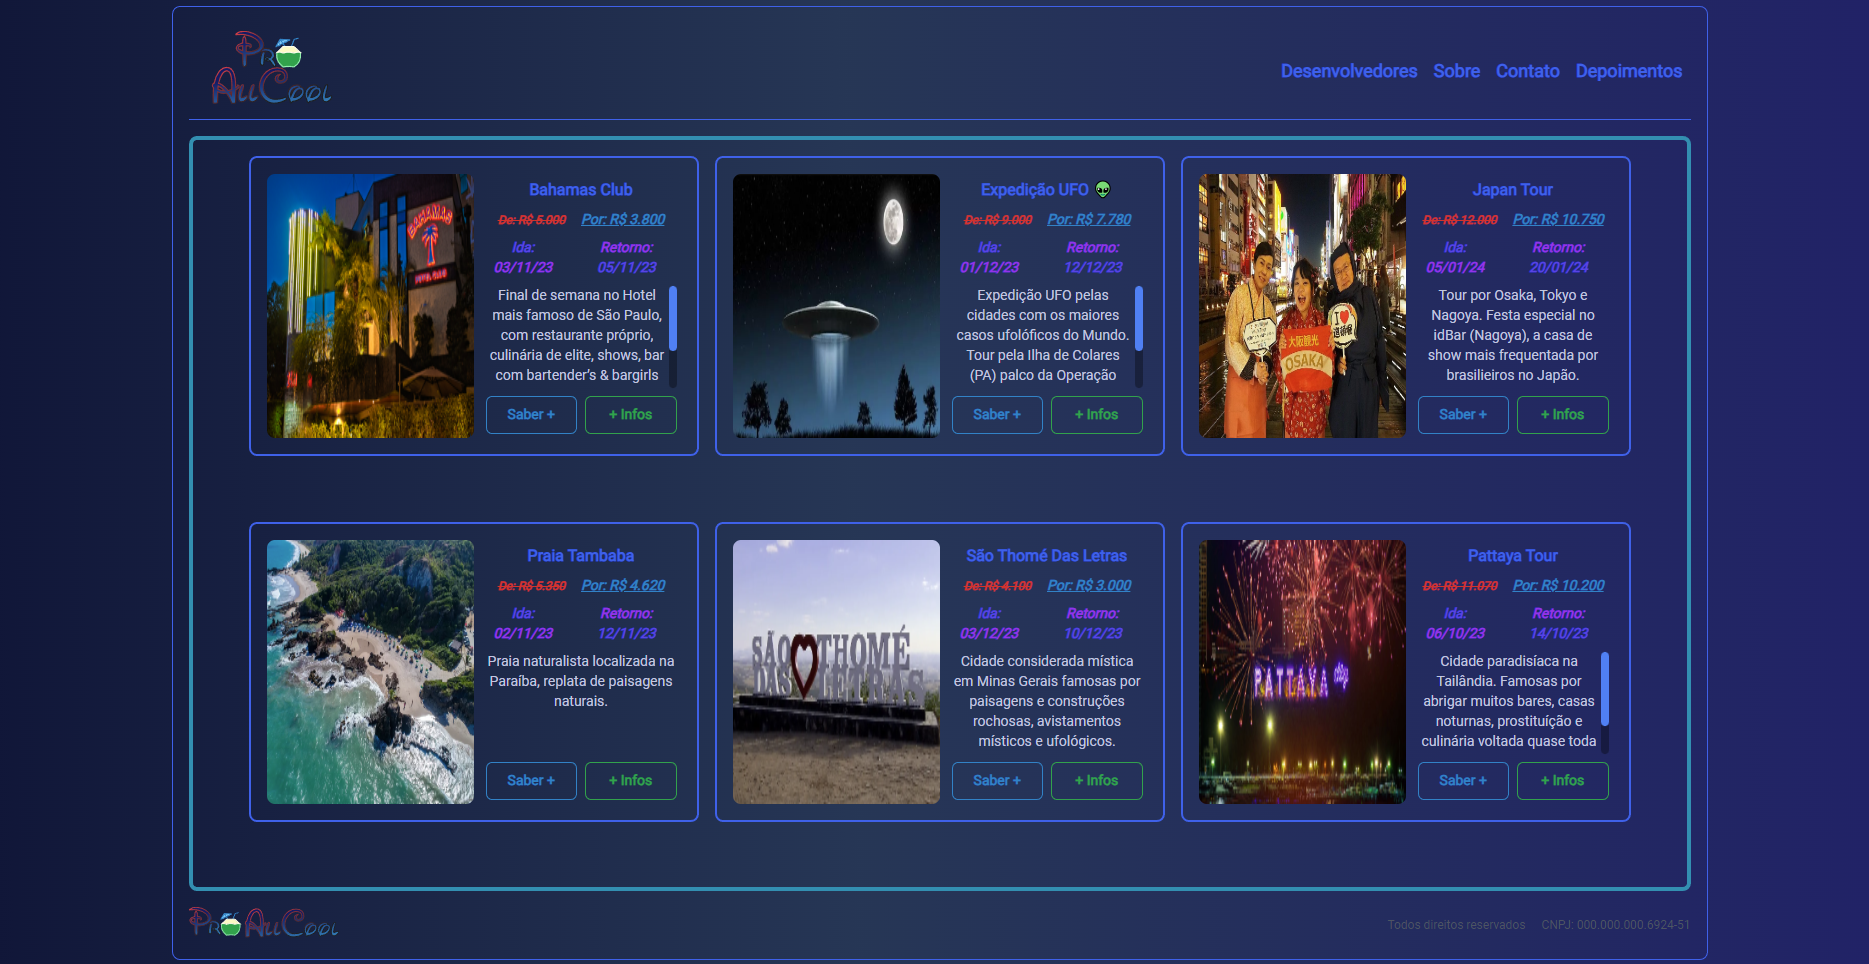
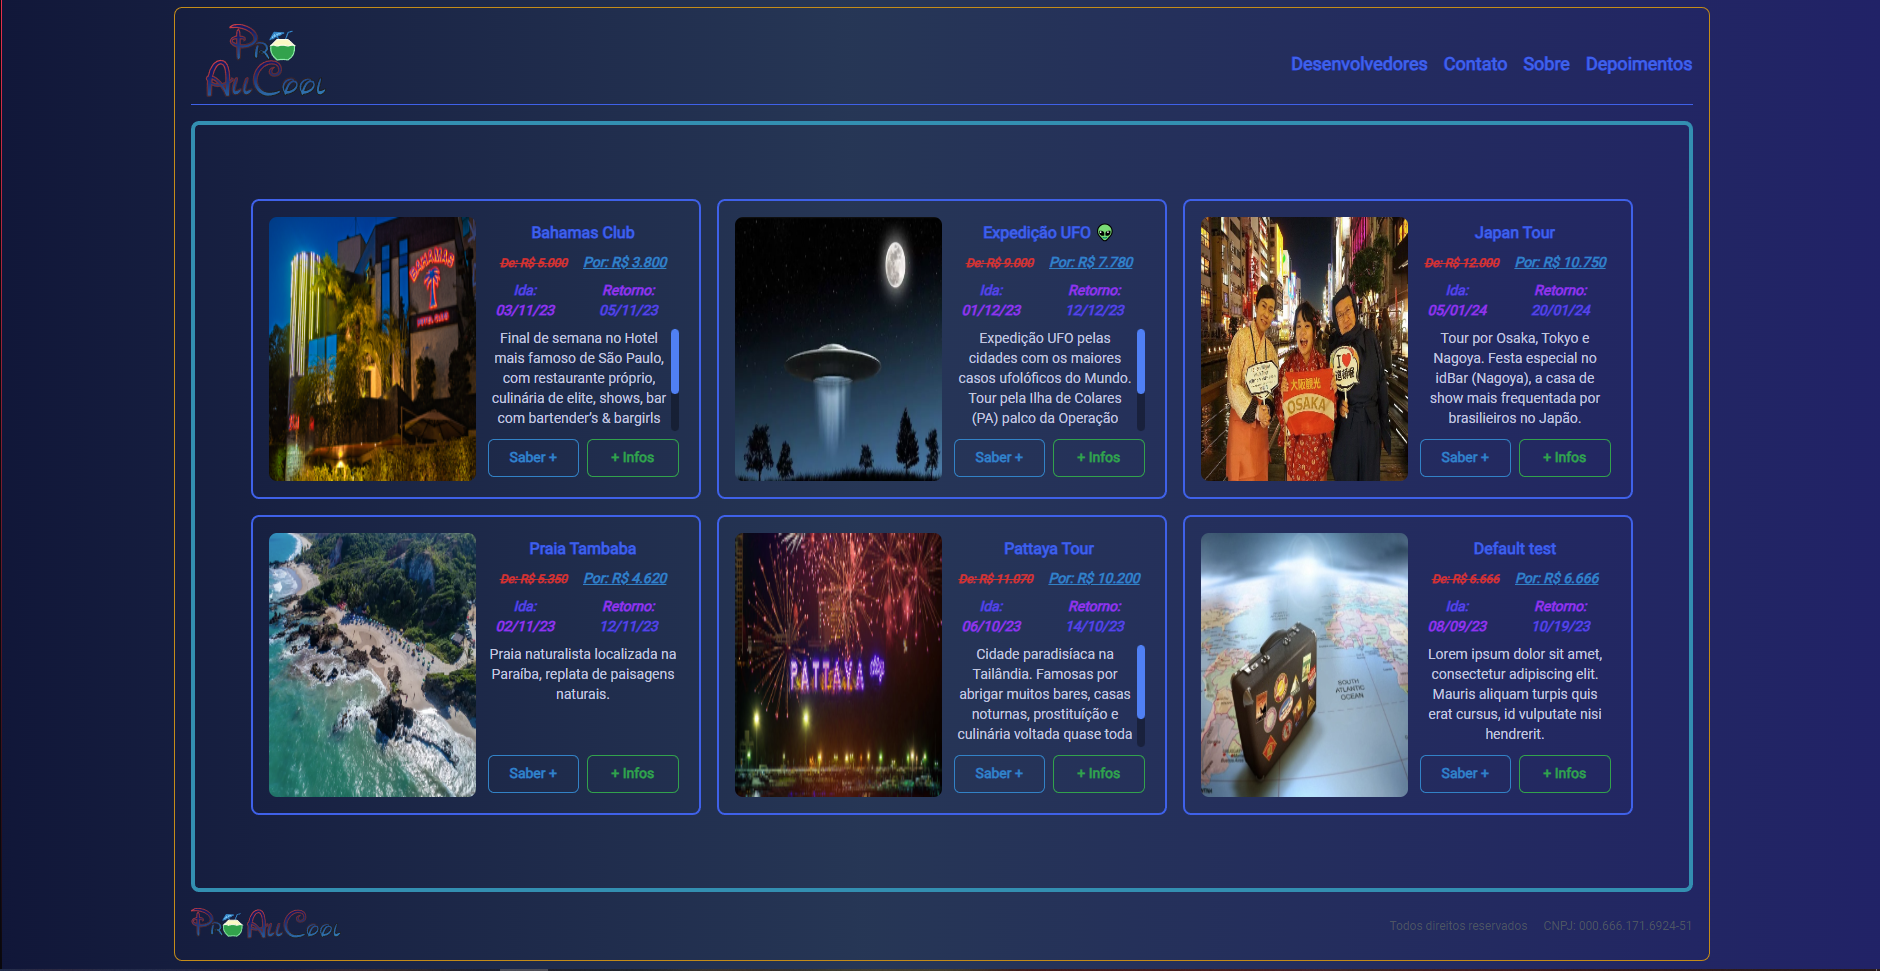
Fixing bugs in project

diff --git a/Frontend/src/modals/PossibleClientModal.tsx b/Frontend/src/modals/PossibleClientModal.tsx
@@ -1,4 +1,4 @@
-import { useState, useEffect, useContext } from 'react' 
+import { useState, useEffect, useContext, KeyboardEvent } from 'react' 
 import { Envelope } from "../assets/icons/Envelope"
 import { Instagram } from "../assets/icons/Instagram"
 import { WhatsApp } from "../assets/icons/WhatsApp"
@@ -10,6 +10,12 @@ import { usePossibleClient } from '../hooks/Hooks'
 import { ExcursionsContext } from '../contexts/ExcursionsContext'
 
 export const PossibleClientModal = ({ close }: Modal) => {
+   const btnHover = [
+      'hover:text-blue-300',
+      'hover:border-blue-300',
+      'hover:bg-blue-600'
+   ].join(' ')
+
    const [idExc, setIdExc] = useState(1)
    const [nameExc, setNameExc] = useState('Outra excursão')
    const [name, setName] = useState('')
@@ -45,7 +51,7 @@ export const PossibleClientModal = ({ close }: Modal) => {
             instaPosClient: insta
          })
 
-         setNameExc('')
+         setNameExc('Outra excursão')
          setName('')
          setEmail('')
          setTel('')
@@ -65,11 +71,13 @@ export const PossibleClientModal = ({ close }: Modal) => {
       }
    }
 
-   const btnHover = [
-      'hover:text-blue-300',
-      'hover:border-blue-300',
-      'hover:bg-blue-600'
-   ].join(' ')
+   const keyUpEnter = (e: KeyboardEvent<HTMLInputElement>) => {
+      if(name !== '' && email !== '' && tel !== '' && e.code.toLocaleLowerCase() === 'enter') {
+         handleNewPossibleClient()
+      }
+   }
+
+   
 
    return(
       <section className="modal flex justify-center items-center">
@@ -92,7 +100,7 @@ export const PossibleClientModal = ({ close }: Modal) => {
                <div className="flex flex-col text-indigo-600 w-fit">
                   <form className='flex flex-col gap-1 font-bold'>
 
-                     <span className="flex justify-center items-center gap-1 py-1 border-b border-sky-600">
+                     <span className="flex justify-between items-center gap-1 py-1 border-b border-sky-600">
                         <MapLocationDot w="24" h="24" fill="#9333EA" />
 
                         <select
@@ -130,7 +138,8 @@ export const PossibleClientModal = ({ close }: Modal) => {
                         <input type="text" placeholder='WhatsApp'
                            className='bg-transparent text-center text-sky-600 placeholder:text-indigo-400'
                            value={ tel }
-                           onChange={ e => setTel(e.target.value) } />
+                           onChange={ e => setTel(e.target.value) } 
+                           onKeyUp={ keyUpEnter } />
                      </span>
 
                      <span className="flex justify-center items-center gap-2 py-1 border-b border-sky-600">
@@ -139,7 +148,8 @@ export const PossibleClientModal = ({ close }: Modal) => {
                         <input type="text" placeholder='@Instagram'
                            className='bg-transparent text-center text-sky-600 placeholder:text-indigo-400'
                            value={ insta }
-                           onChange={ e => setInsta(e.target.value) } />
+                           onChange={ e => setInsta(e.target.value) } 
+                           onKeyUp={ keyUpEnter } />
                      </span>
                   </form>
 

diff --git a/Backend/server.ts b/Backend/server.ts
@@ -35,7 +35,7 @@ server.get('/excursions', (req, res) => {
 server.get('/excursion/:id', (req, res) => {
    const { id } = req.params
 
-   const query = `SELECT * FROM excursions WHERE id = ?`
+   const query = `SELECT * FROM excursions WHERE idExc = ?`
 
    db.query(query, [id], (err, result) => {
       if(err) {
@@ -120,7 +120,7 @@ server.put('/excursion/active/:idExc', (req, res) => {
 server.delete('/excursion/:id', (req, res) => {
    const { id } = req.params
 
-   const checkIfExcursionExist = `SELECT * FROM excursions WHERE id = ?`
+   const checkIfExcursionExist = `SELECT * FROM excursions WHERE idExc = ?`
    const query = `DELETE FROM excursions WHERE idExc = ${ id }`
 
    db.query(checkIfExcursionExist, [id], (err, result) => {

diff --git a/Frontend/src/modals/DevelopersModal.tsx b/Frontend/src/modals/DevelopersModal.tsx
@@ -60,7 +60,7 @@ export const DevelopersModal = ({ close }: Modal) => {
                         <GitHub w="32" h="32" />
                      </a>
 
-                     <a href="https://www.linkedin.com/in/douglas-suzuki-775822219/" target="_blank"
+                     <a href="https://www.linkedin.com/in/mathias-ssilva/" target="_blank"
                         className=" transition-all duration-700 hover:opacity-70">
                         <Linkedin fill="#F00" w="32" h="32" />
                      </a>

diff --git a/Frontend/src/components/Footer.tsx b/Frontend/src/components/Footer.tsx
@@ -1,11 +1,12 @@
+import { Link } from 'react-router-dom'
 import ProAllCool from '../assets/icons/ProAllCoolLogo.svg'
 
 export const Footer = () => {
    return(
       <footer className="flex justify-between items-center text-xs gap-4 h-auto">
-         <div>
+         <Link to='/secret'>
             <img src={ ProAllCool } alt="Pro AllCool Logo" className='logo-footer' />
-         </div>
+         </Link>
 
          <div className="flex gap-4 text-gray-600">
             <p>Todos direitos reservados</p>

diff --git a/Frontend/src/components/Excursions.tsx b/Frontend/src/components/Excursions.tsx
@@ -69,7 +69,7 @@ export const Excursions = ({ showModal, setShowPossibleClientModal }: Props) => 
 
                {
                   excursionsCTX?.excursions && 
-                  excursionsCTX?.excursions.length <= 0 && 
+                  excursionsCTX?.excursions.length <= 1 && 
                   <p className="flex justify-center items-center font-bold text-3xl text-sky-600 h-full">
                      Não há excursões ativas.
                   </p>

diff --git a/Frontend/src/components/FormExcursion.tsx b/Frontend/src/components/FormExcursion.tsx
@@ -48,7 +48,7 @@ export const FormExcursion = ({
             prevValueExc: prevValueExc!,
             currentValueExc: currentValueExc!,
             descriptionExc: descriptionExc!,
-            dateExc: descriptionExc!,
+            dateExc: dateExc!,
             returnExc: returnExc!,
             //openModal: openModalExc !== '' ? `< ${openModalExc} />` : '< DefaultModal />', 
             openModal: openModalExc !== '' ? openModalExc! : 'DefaultModal', 

diff --git a/Frontend/src/components/Header.tsx b/Frontend/src/components/Header.tsx
@@ -20,7 +20,7 @@ export const Header = ({ showDevelopersModal, setShowDevelopersModal, showAboutU
    return (
       <header className="flex justify-between border-b h-auto border-blue-600">
          <span id="logo" className="text-2xl font-bold">
-            <Link to='/secret'>
+            <Link to='/'>
                <img src={ Logo } alt="Logo Pro AllCool" className="logo-header" />
             </Link>
          </span>

diff --git a/Frontend/src/index.css b/Frontend/src/index.css
@@ -87,6 +87,7 @@ table th, table td, th th, th td, tr th, tr td, td th, td td {
   padding: 8px;
 }
 table tbody tr, th tbody tr, tr tbody tr, td tbody tr {
+  height: auto;
   transition: all ease 0.7s;
 }
 table tbody tr:hover, th tbody tr:hover, tr tbody tr:hover, td tbody tr:hover {

diff --git a/Frontend/src/index.scss b/Frontend/src/index.scss
@@ -106,6 +106,7 @@ table, th, tr, td {
   }
 
   tbody tr {
+    height: auto;
     transition: all ease .7s;
 
     &:hover {
